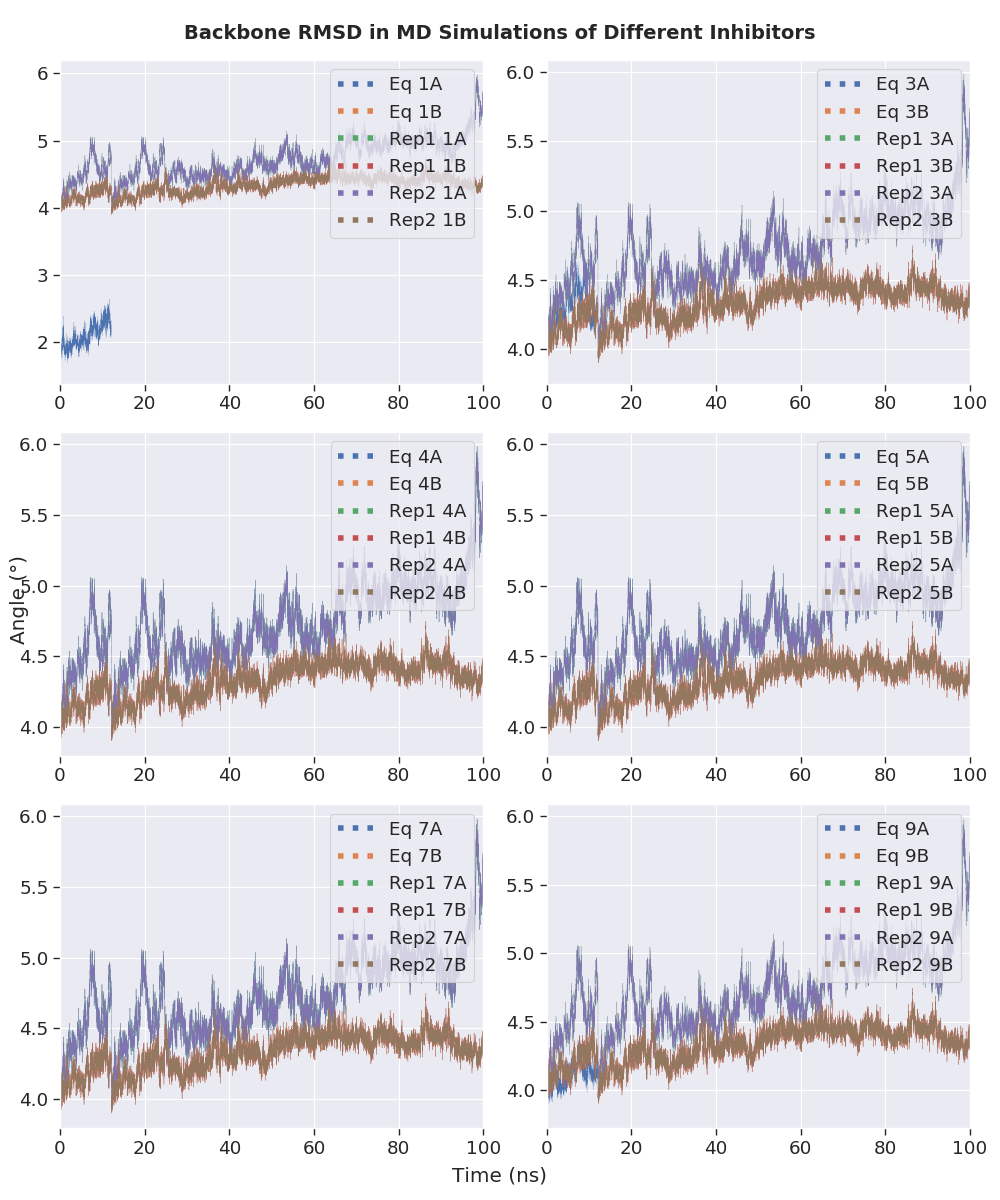
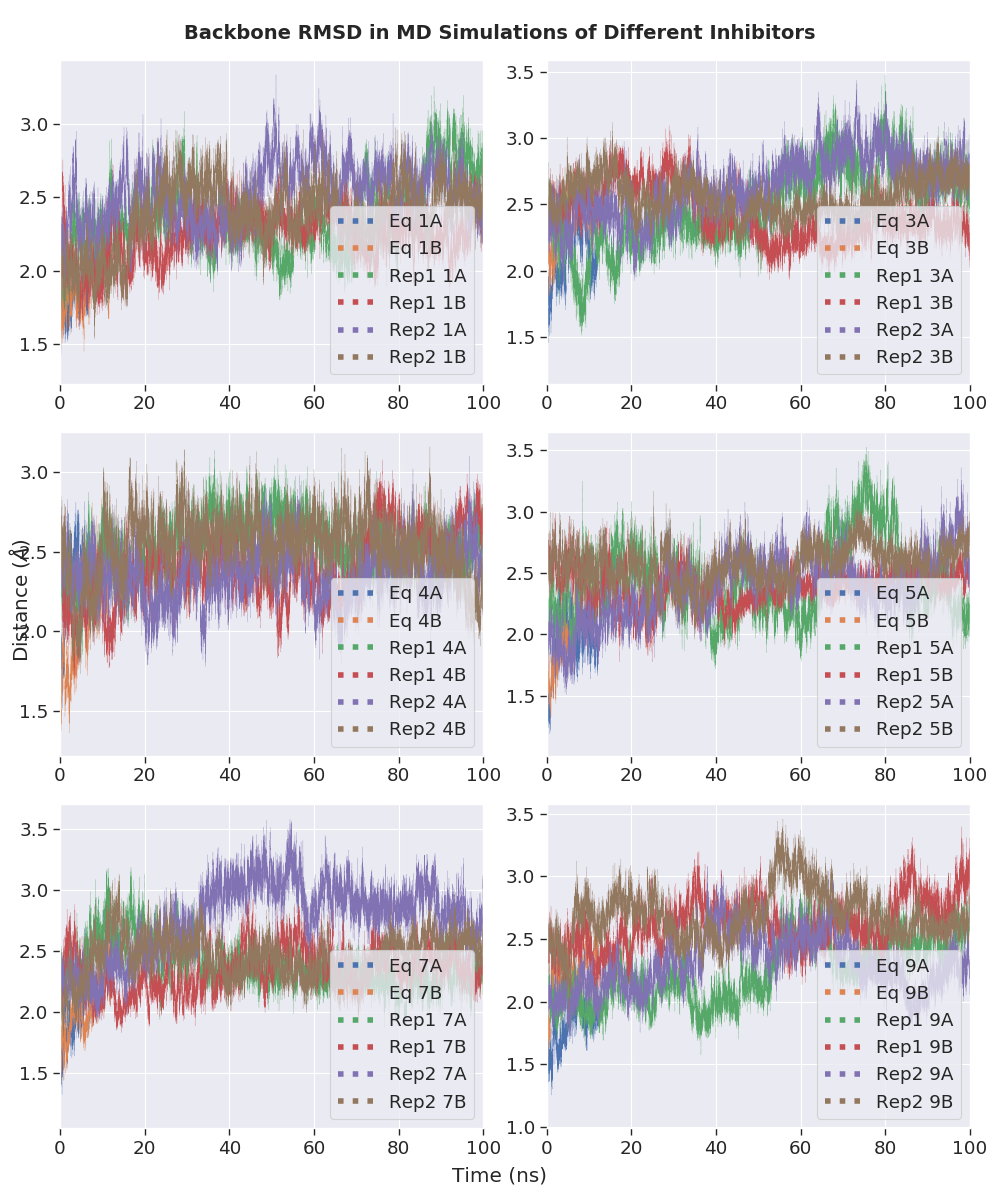
Finalised bb_rmsd.py

diff --git a/MD/lig_dihedral.py b/MD/lig_dihedral.py
@@ -20,18 +20,20 @@ CURR_DIR = os.getcwd()
 
 if __name__ == "__main__":
 
-    system_type, num_subplots, fig_type = "noncov", 6, "Line"
+    system_type, num_subplots, fig_type = "noncov", 6, "Hist"
 
     PLOTS_WIDTH, PLOTS_HEIGHT = SIX_PLOTS_WIDTH, SIX_PLOTS_HEIGHT
     num_row, subplot_index = int(num_subplots / 2), 0
     fig, axes = plt.subplots(nrows=num_row, ncols=2, sharex=True, sharey=True, figsize=(PLOTS_WIDTH, PLOTS_HEIGHT))
     if fig_type == "Line":
         fig.subplots_adjust(top=0.95, bottom=0.06, left=0.10, right=0.97, wspace=0.25, hspace=0.15)
+        fig.text(0.5, 0.02, "Time (ns)", va='center', ha='center')
+        fig.text(0.02, 0.5, u"Angle (\N{DEGREE SIGN})", va='center', ha='center', rotation='vertical')
     elif fig_type == "Hist":
-        fig.subplots_adjust(top=0.95, bottom=0.07, left=0.08, right=0.97, wspace=0.15, hspace=0.15)
+        fig.subplots_adjust(top=0.95, bottom=0.06, left=0.10, right=0.97, wspace=0.25, hspace=0.15)
+        fig.text(0.5, 0.02, u"Angle (\N{DEGREE SIGN})", va='center', ha='center')
+        fig.text(0.02, 0.5, "Proportion", va='center', ha='center', rotation='vertical')
     fig.suptitle("Dihedral of C=C-C=O For All Inhibitors", horizontalalignment='center', fontsize=14, weight='bold')
-    fig.text(0.5, 0.02, "Time (ns)", va='center', ha='center')
-    fig.text(0.02, 0.5, u"Angle (\N{DEGREE SIGN})", va='center', ha='center', rotation='vertical')
 
     for i, inhibitor in enumerate(inhibitor_list):
         combined_df = pd.DataFrame(list(np.arange(0.005, 100.005, 0.005)), columns=["Time (ns)"])

diff --git a/MD/bb_rmsd.py b/MD/bb_rmsd.py
@@ -27,11 +27,13 @@ if __name__ == "__main__":
     fig, axes = plt.subplots(nrows=num_row, ncols=2, sharex=True, sharey=True, figsize=(PLOTS_WIDTH, PLOTS_HEIGHT))
     if fig_type == "Line":
         fig.subplots_adjust(top=0.95, bottom=0.06, left=0.06, right=0.97, wspace=0.15, hspace=0.15)
+        fig.text(0.5, 0.02, "Time (ns)", va='center', ha='center')
+        fig.text(0.02, 0.5, r"Distance ($\AA$)", va='center', ha='center', rotation='vertical')
     elif fig_type == "Hist":
         fig.subplots_adjust(top=0.95, bottom=0.07, left=0.08, right=0.97, wspace=0.15, hspace=0.15)
+        fig.text(0.5, 0.02, r"Distance ($\AA$)", va='center', ha='center')
+        fig.text(0.02, 0.5, "Proportion", va='center', ha='center', rotation='vertical')
     fig.suptitle("Backbone RMSD in MD Simulations of Different Inhibitors", horizontalalignment='center', fontsize=14, weight='bold')
-    fig.text(0.5, 0.02, "Time (ns)", va='center', ha='center')
-    fig.text(0.02, 0.5, u"Angle (\N{DEGREE SIGN})", va='center', ha='center', rotation='vertical')
 
     for i, inhibitor in enumerate(inhibitor_list):
         combined_df = pd.DataFrame(list(np.arange(0.005, 100.005, 0.005)), columns=["Time (ns)"])

diff --git a/MD/SC_bond_dist.py b/MD/SC_bond_dist.py
@@ -27,11 +27,13 @@ if __name__ == "__main__":
     fig, axes = plt.subplots(nrows=num_row, ncols=2, sharex=True, sharey=True, figsize=(PLOTS_WIDTH, PLOTS_HEIGHT))
     if fig_type == "Line":
         fig.subplots_adjust(top=0.95, bottom=0.06, left=0.06, right=0.97, wspace=0.15, hspace=0.15)
+        fig.text(0.5, 0.02, "Time (ns)", va='center', ha='center')
+        fig.text(0.02, 0.5, r"Distance ($\AA$)", va='center', ha='center', rotation='vertical')
     elif fig_type == "Hist":
         fig.subplots_adjust(top=0.95, bottom=0.07, left=0.08, right=0.97, wspace=0.15, hspace=0.15)
+        fig.text(0.5, 0.02, r"Distance ($\AA$)", va='center', ha='center')
+        fig.text(0.02, 0.5, "Proportion", va='center', ha='center', rotation='vertical')
     fig.suptitle(r"Distance between CYS481 S and C$_\beta$", horizontalalignment='center', fontsize=14, weight='bold')
-    fig.text(0.5, 0.02, "Time (ns)", va='center', ha='center')
-    fig.text(0.02, 0.5, r"Distance ($\AA$)", va='center', ha='center', rotation='vertical')
 
     for i, inhibitor in enumerate(inhibitor_list):
         combined_df = pd.DataFrame(list(np.arange(0.005, 100.005, 0.005)), columns=["Time (ns)"])
